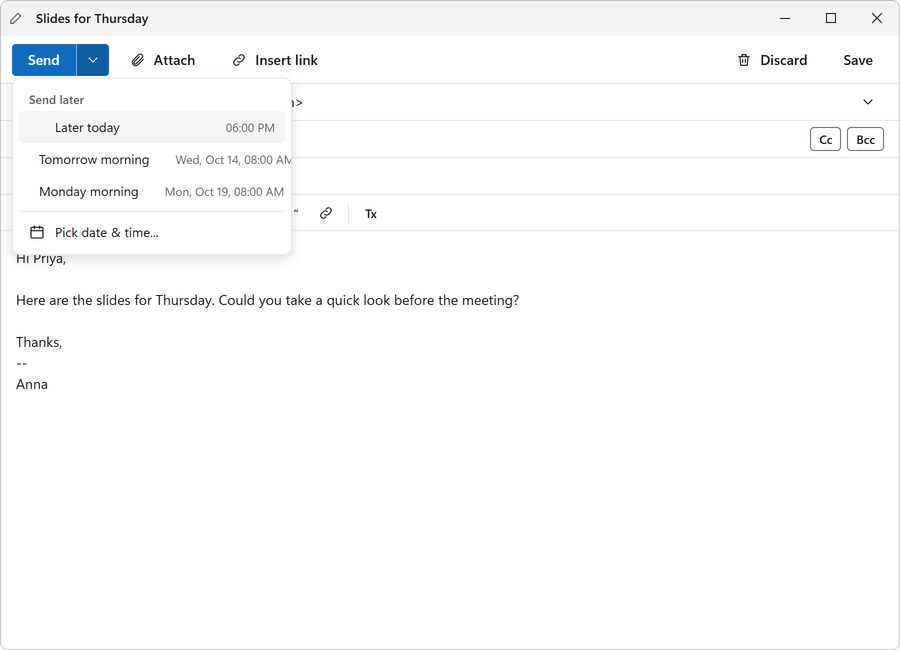
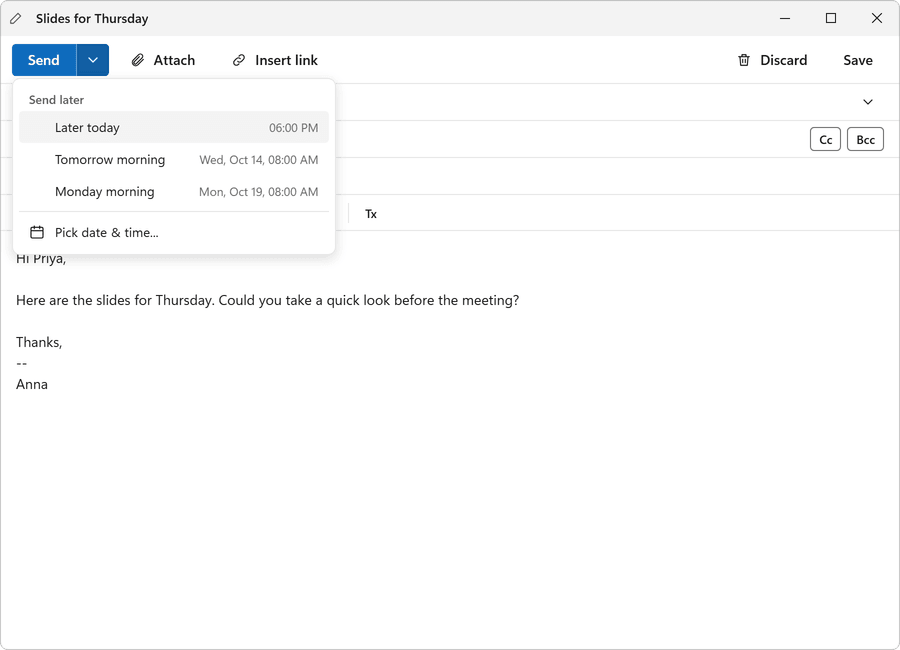
Fix Send later menu: fit content, aligned labels, no clipped times

Changed region(s): [[0.0311, 0.1846, 0.3733, 0.3077], [0.0622, 0.3385, 0.1556, 0.3692], [0.3422, 0.3077, 0.3733, 0.3385]]

diff --git a/src/renderer/src/components/ui.tsx b/src/renderer/src/components/ui.tsx
@@ -487,8 +487,8 @@ export type MenuEntry =
   | 'sep';
 
 interface MenuOptions {
-  /** Fixed width in px (default: as wide as the items need). */
-  width?: number;
+  /** Minimum width in px. The menu still grows to fit its items (default: as wide as they need). */
+  minWidth?: number;
   /** Called when the menu closes by any way (Esc, outside click, a choice). */
   onClose?: () => void;
 }
@@ -597,7 +597,7 @@ export function MenuHost() {
         left: pos?.left ?? menu.x,
         top: pos?.top ?? menu.y,
         visibility: pos ? 'visible' : 'hidden',
-        ...(menu.opts.width ? { width: menu.opts.width } : {}),
+        ...(menu.opts.minWidth ? { minWidth: menu.opts.minWidth } : {}),
       }}
       onKeyDown={onKey}
       onContextMenu={(e) => e.preventDefault()}
@@ -621,8 +621,8 @@ export function MenuHost() {
               it.onSelect();
             }}
           >
-            {it.icon ? <Icon name={it.icon} /> : <span style={{ width: 16 }} />}
-            {it.label}
+            {it.icon ? <Icon name={it.icon} /> : <span className="mi-gap" aria-hidden="true" />}
+            <span className="ml">{it.label}</span>
             {it.hint ? <span className="a">{it.hint}</span> : null}
           </button>
         ),

diff --git a/src/renderer/src/styles/app.css b/src/renderer/src/styles/app.css
@@ -1872,6 +1872,7 @@ select.inp {
   padding: 6px;
   z-index: 500;
   min-width: 200px;
+  max-width: calc(100vw - 16px);
   max-height: calc(100vh - 16px);
   overflow: auto;
 }
@@ -1906,11 +1907,26 @@ select.inp {
     inset 0 0 0 2px var(--ring-o),
     inset 0 0 0 3px var(--ring-i);
 }
+.menu .mi > svg,
+.menu .mi .mi-gap {
+  flex: none;
+}
+.menu .mi .mi-gap {
+  width: 16px;
+  height: 16px;
+}
+.menu .mi .ml {
+  min-width: 0;
+  overflow: hidden;
+  text-overflow: ellipsis;
+}
 .menu .mi .a {
   color: var(--t3);
   font-size: 12px;
   margin-left: auto;
-  padding-left: 16px;
+  padding-left: 24px;
+  flex: none;
+  white-space: nowrap;
 }
 .menu .mi[disabled] {
   color: var(--tdis);

diff --git a/src/renderer/src/features/compose/SendButton.tsx b/src/renderer/src/features/compose/SendButton.tsx
@@ -43,7 +43,7 @@ export const SendButton = forwardRef<
     items.push('sep', { label: 'Pick date & time...', icon: 'calendar', disabled: limitReached, onSelect: onPick });
     setOpen(true);
     openMenuAt(el, items, {
-      width: 280,
+      minWidth: 280,
       onClose: () => {
         setOpen(false);
         chev.current?.focus();
